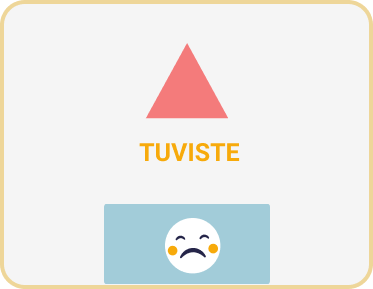
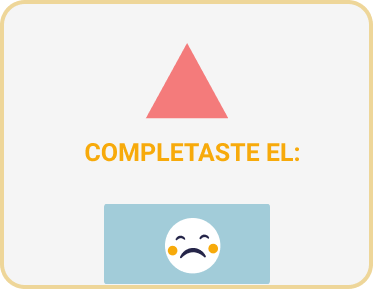
changed the score system

Changed region(s): [[0.2064, 0.4671, 0.7962, 0.5606]]

diff --git a/script.js b/script.js
@@ -83,7 +83,9 @@ let cardsCreated = false;
 let poolClosed = false
 let poolOpened = true
 let wordCards
+let mistake = false
 let mistakes = 0
+let success = 0
 let boardCards
 let tarjetonInicio
 
@@ -191,7 +193,7 @@ function createCards() {
                     wordCards[i].classList.remove("boardCard")
                     wordCards[i].classList.add("poolCard")
                     poolWords.appendChild(wordCards[i])
-                    mistakes = 0
+
 
                 }
             }
@@ -287,12 +289,20 @@ function shuffle(array) {
 
 function mistakeCount() {
 
-    if (boardCards.length >= phraseBackup.length) {
+    if (boardCards.length == phraseBackup.length) {
+
+        mistakes = 0
+        mistake = false;
+        success = 0
 
         for (let i = 0; i < phraseBackup.length; i++) {
 
             if (phraseBackup[i] != boardCards[i].textContent) {
+                mistake = true;
                 mistakes += 1
+            } else if (phraseBackup[i] == boardCards[i].textContent && !mistake) {
+
+                success += 1
             }
         }
 
@@ -302,7 +312,7 @@ function mistakeCount() {
             gameOverImg.src = "./data/win.png"
 
         } else {
-            gameOverH1.textContent = mistakes + " ERRORES"
+            gameOverH1.textContent = parseInt((success / phraseBackup.length) * 100) + "% DE LA HISTORIA"
             gameOverImg.src = "./data/lose.png"
         }
 
@@ -315,23 +325,20 @@ function mistakeCount() {
         }, 1)
 
         if (nivel == 1) {
-            total += (80 / phraseBackup.length) * (phraseBackup.length - mistakes)
+            total += (80 / phraseBackup.length) * success
 
         }
 
         if (nivel == 2 || nivel == 3) {
-            total += (phraseBackup.length - mistakes) * 15
+            total += success * (60 / phraseBackup.length)
 
         }
-
     }
-
 }
 
 gameOverBtn.addEventListener("pointerdown", function () {
 
     cardsCreated = false;
-    mistakes = 0
     game.classList.remove("blur")
     gameOver.style.opacity = "0"
 
@@ -347,9 +354,9 @@ gameOverBtn.addEventListener("pointerdown", function () {
         }
 
         nivel = 2
-        story = `Un hombre, colmado de tristeza y desolación por la muerte de su esposa, decide explorar un bosque al que ella tanto anhelaba ir.. Cuando empezó a anochecer, su sentido de orientación ya no funcionaba bien.. Caminaba sin rumbo por aquel bosque cuando encontró una cabaña entre varios árboles,. al golpear la puerta, no recibió respuesta y como estaba abierta decidió entrar.`
+        story = `Un hombre, colmado de tristeza y desolación por la muerte de su esposa, decide explorar un bosque al que ella tanto anhelaba ir.. Cuando empezó a anochecer, su sentido de orientación ya no funcionaba bien.. Caminaba sin rumbo por aquel bosque cuando encontró una cabaña entre varios árboles.. Al golpear la puerta, no recibió respuesta y como estaba abierta decidió entrar.`
         phraseBackup = story.split(". ")
-        story = `Un hombre, colmado de tristeza y desolación por la muerte de su esposa, decide explorar un bosque al que ella tanto anhelaba ir.. Cuando empezó a anochecer, su sentido de orientación ya no funcionaba bien.. Caminaba sin rumbo por aquel bosque cuando encontró una cabaña entre varios árboles,. al golpear la puerta, no recibió respuesta y como estaba abierta decidió entrar.. Un hombre que deseaba pasar unas merecidas vacaciones, decidió ir a visitar la torre Eiffel.. De la nada, su esposa se empieza a marear y deciden detenerse a descansar.. De la nada, su esposa se empieza a marear y deciden detenerse a descansar.. Apasionado por la zoología en particular por la observación de pájaros, decide adentrarse en ese bosque.. Asombrado por la opulencia de la entrada, el hombre decide entrar en aquel ascensor.`
+        story = `Un hombre, colmado de tristeza y desolación por la muerte de su esposa, decide explorar un bosque al que ella tanto anhelaba ir.. Cuando empezó a anochecer, su sentido de orientación ya no funcionaba bien.. Caminaba sin rumbo por aquel bosque cuando encontró una cabaña entre varios árboles.. Al golpear la puerta, no recibió respuesta y como estaba abierta decidió entrar.. Un hombre que deseaba pasar unas merecidas vacaciones, decidió ir a visitar la torre Eiffel.. De la nada, su esposa se empieza a marear y deciden detenerse a descansar.. De la nada, su esposa se empieza a marear y deciden detenerse a descansar.. Apasionado por la zoología en particular por la observación de pájaros, decide adentrarse en ese bosque.. Asombrado por la opulencia de la entrada, el hombre decide entrar en aquel ascensor.`
         phrase = story.split(". ")
         openTitle.style.opacity = "1"
         openTitleImg.src = "./data/level2.png"

diff --git a/index.html b/index.html
@@ -127,10 +127,9 @@
                         <div>
 
                             <img src="./data/instruccion1Left.png">
-                            <p>A continuación contaras con un inventario de recuadros que contienen las partes de una
-                                historia, tu tendrás que ordenar cada fragmento para que dicha historia este completa y
-                                sus
-                                partes tengan cohesión. <br>
+                            <p>A continuación contarás con un inventario de recuadros que contienen las partes de una
+                                historia, tú tendrás que ordenar cada fragmento para que dicha historia esté completa y
+                                sus partes tengan cohesión. <br>
                                 Usa la esfera roja para cambiar entre las zonas de juego.
                             </p>
                         </div>
@@ -138,8 +137,8 @@
                             <img src="./data/instruccion1Right.png">
                             <p>Da click sobre cada una para hacer que haga parte del tablero principal, si te
                                 equivocaste da
-                                click sobre el recuadro para que vuelva al inventario.<br> Cuando hayas puesto la ultima
-                                tarjeta, el juego habrá terminado
+                                click sobre el recuadro para que vuelva al inventario.<br> Cuando hayas puesto la última
+                                tarjeta, el juego habrá terminado.
                             </p>
                         </div>
                     </div>
@@ -151,7 +150,7 @@
 
                 <div class="instructions instructionsLvl2 animated">
                     <h1>INSTRUCCIONES</h1>
-                    <p>Las historias estan constituidas por un inicio, un nudo y un desenlace. </p>
+                    <p>Las historias están constituidas por un inicio, un nudo y un desenlace. </p>
                     <div class="instructionsCards">
                         <div>
                             <h1>INICIO</h1>
@@ -173,13 +172,13 @@
                     </div>
                     <div class="instructionsSections">
                         <div>
-                            <p>A continuación contarás solo con el nudo de la historia, pero le falta el inicio y el
+                            <p>!A continuación contarás solo con el nudo de la historia, ¡Pero le falta el inicio y el
                                 desenlace!</p>
                             <img src="./data/instruccion2Left.png">
                         </div>
                         <div>
                             <p>¡Escoge del inventario el inicio y desenlace que creas más pertinente, y ayuda a esta
-                                historia a ser una narración completa de nuevo!. </p>
+                                historia a ser una narración completa de nuevo!</p>
                             <img src="./data/instruccion2Right.png">
 
                         </div>
@@ -225,7 +224,7 @@
     <main class="gameOver">
         <div>
             <img>
-            <h1>CANTIDAD DE ERRORES</h1>
+            <h1></h1>
 
         </div>
         <h1 class="btn btnGameOver">SIGUIENTE</h1>

diff --git a/style.css b/style.css
@@ -108,10 +108,14 @@ body {
 
 .boardCard {
     color: black;
-    background-color: #EED699;
-
-
+    font-weight: 600;
+    background-color: rgb(255, 255, 255);
+    border-style: solid;
+    border-width: 5px;
+    border-color: #EED699;
 }
+
+
 
 .openTitle {
 
@@ -158,19 +162,21 @@ body {
     text-align: center;
     font-family: 'Roboto', sans-serif;
     width: 120px;
-    background-color: #EED699;
+    background-color: rgb(177, 75, 75);
     font-size: 20px;
     padding: 10px 30px;
     color: #FAFAFA;
+    font-weight: 100;
     border-radius: 50px;
     cursor: pointer;
-    transition: box-shadow 0.2s ease-in-out;
+    transition: box-shadow 0.2s ease-in-out, background-color 0.2s ease-in-out;
 
 }
 
 .btn:hover {
-    box-shadow: 0 0 0 5px #EED699;
-    transition: box-shadow 0.2s ease-in-out;
+    box-shadow: 0 0 0 5px #F36D6D;
+    background-color: #F36D6D;
+    transition: box-shadow 0.2s ease-in-out, background-color 0.2s ease-in-out;
 
 }
 
@@ -346,7 +352,7 @@ body {
     flex-direction: row;
     justify-content: space-evenly;
     align-items: center;
-    width: 90%;
+    width: 100%;
     height: 500px;
 
 }
@@ -357,7 +363,7 @@ body {
     flex-direction: column;
     background-color: #EED699;
     border-radius: 25px;
-    width: 300px;
+    width: 350px;
     height: 100%;
     justify-content: space-evenly;
     align-items: center;
@@ -372,8 +378,9 @@ body {
 
 .juegoNivel2>div>div {
     background-color: white;
-    width: 90%;
-    height: 40%;
+    border-radius: 40px;
+    width: 92%;
+    height: 42%;
     display: flex;
     flex-direction: column;
     align-items: center;
